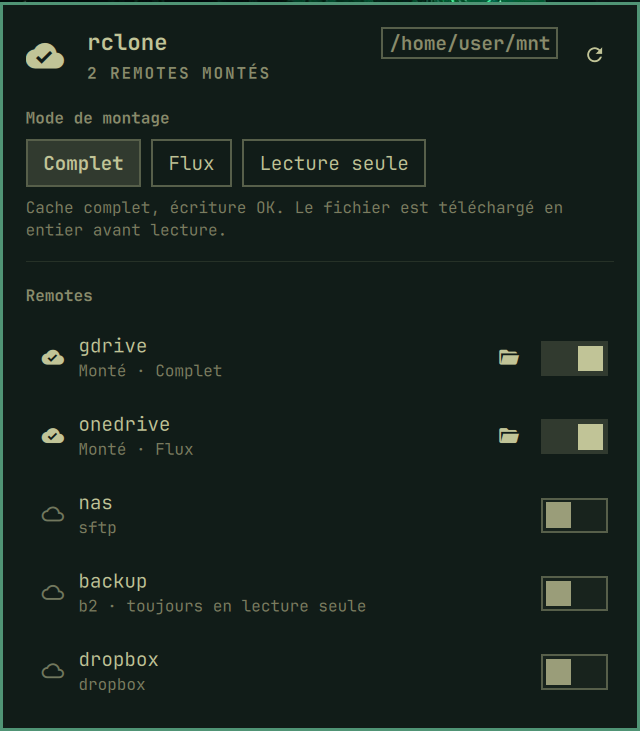
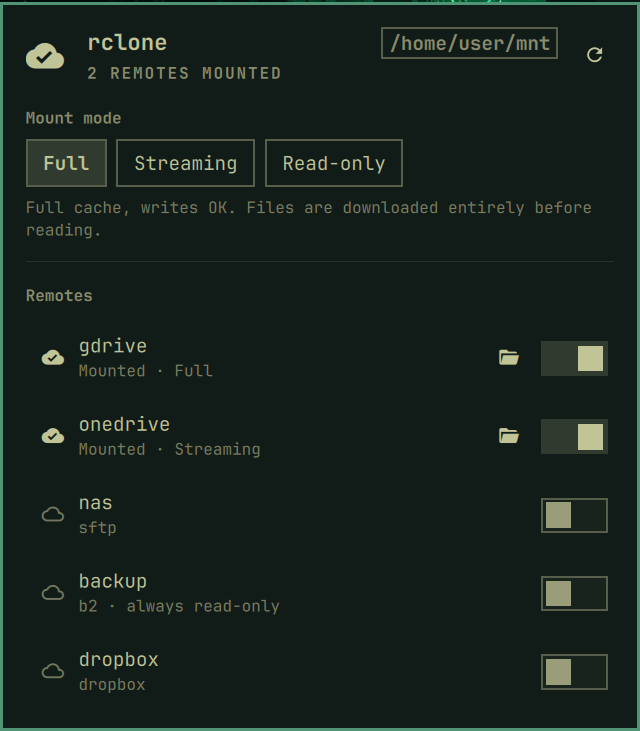
Show the panel in English in the screenshots
Retake the preview in English and add a screenshot of the prerequisite
alerts to the README. Both use demo data.

diff --git a/README.md b/README.md
@@ -16,6 +16,9 @@ An [Omarchy](https://omarchy.org) bar widget that lists your
 - Checks its prerequisites and shows an alert with a fix-it button when
   something is missing: rclone, FUSE 3, an rclone config or a remote, and
   (for encrypted configs) `secret-tool` and `zenity`.
+
+  ![Prerequisite alerts](alerts.png)
+
 - Follows the Omarchy theme. English by default, French when the Omarchy
   language is French, or (with no Omarchy language set) when the system
   locale is (`LC_ALL`, `LC_MESSAGES`, then `LANG`). See [Language](#language).
